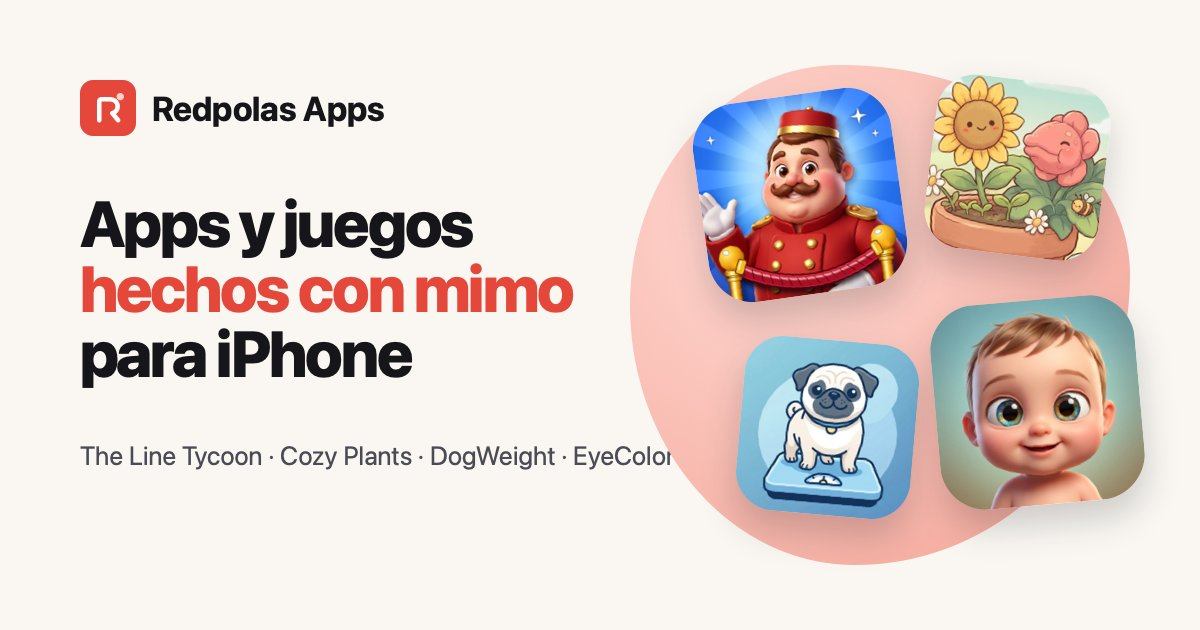
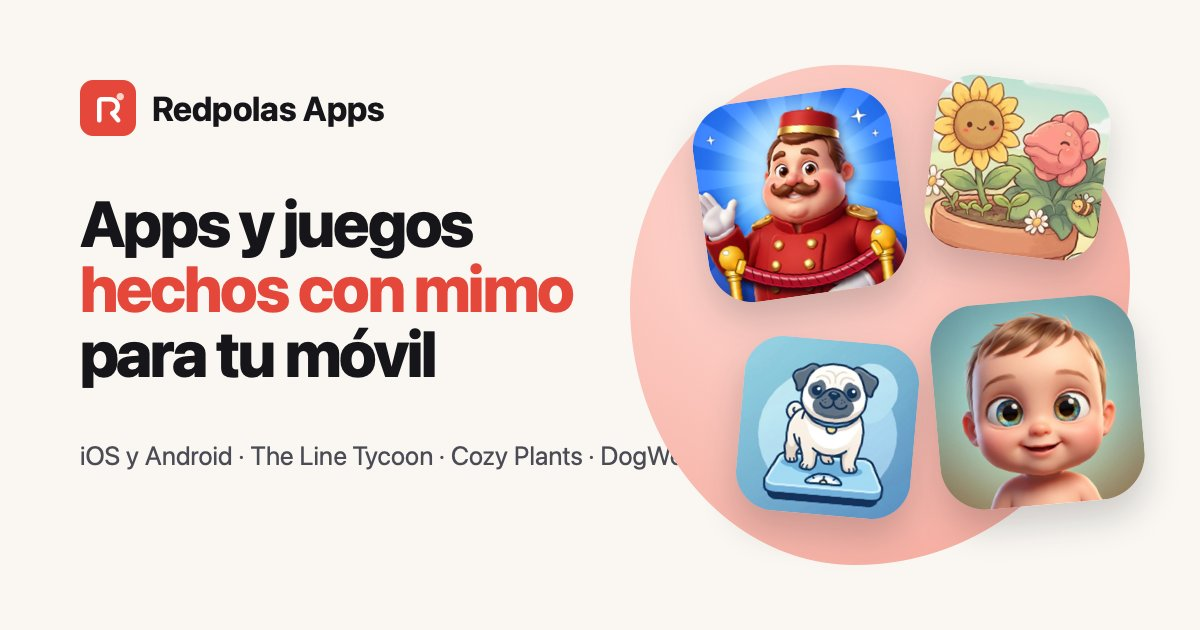
Portada: iOS y Android (textos, títulos, imagen para redes y datos estructurados), botón de Google Play en EyeColor y enlace a la página de desarrollador de Google Play

Changed region(s): [[0.0617, 0.6937, 0.555, 0.754], [0.185, 0.5127, 0.37, 0.6032]]

diff --git a/index.html b/index.html
@@ -3,16 +3,16 @@
 <head>
 <meta charset="UTF-8">
 <meta name="viewport" content="width=device-width, initial-scale=1.0, viewport-fit=cover">
-<title>Redpolas Apps · Apps y juegos para iPhone y iPad</title>
-<meta name="description" content="Estudio independiente de apps y juegos para iPhone y iPad: The Line Tycoon, Cozy Plants, DogWeight y EyeColor. Soporte, contacto y políticas de privacidad.">
+<title>Redpolas Apps · Apps y juegos para iPhone, iPad y Android</title>
+<meta name="description" content="Estudio independiente de apps y juegos para iPhone, iPad y Android: The Line Tycoon, Cozy Plants, DogWeight y EyeColor. Soporte, contacto y privacidad.">
 <link rel="canonical" href="https://redpolasapps.fyi/">
 <link rel="alternate" hreflang="es" href="https://redpolasapps.fyi/">
 <link rel="alternate" hreflang="en" href="https://redpolasapps.fyi/en/">
 <link rel="alternate" hreflang="x-default" href="https://redpolasapps.fyi/en/">
 <meta property="og:type" content="website">
 <meta property="og:site_name" content="Redpolas Apps">
-<meta property="og:title" content="Redpolas Apps · Apps y juegos para iPhone y iPad">
-<meta property="og:description" content="Estudio independiente de apps y juegos para iPhone y iPad: The Line Tycoon, Cozy Plants, DogWeight y EyeColor. Soporte, contacto y políticas de privacidad.">
+<meta property="og:title" content="Redpolas Apps · Apps y juegos para iPhone, iPad y Android">
+<meta property="og:description" content="Estudio independiente de apps y juegos para iPhone, iPad y Android: The Line Tycoon, Cozy Plants, DogWeight y EyeColor. Soporte, contacto y privacidad.">
 <meta property="og:url" content="https://redpolasapps.fyi/">
 <meta property="og:image" content="https://redpolasapps.fyi/assets/og-home.jpg">
 <meta property="og:image:width" content="1200">
@@ -20,8 +20,8 @@
 <meta property="og:locale" content="es_ES">
 <meta property="og:locale:alternate" content="en_US">
 <meta name="twitter:card" content="summary_large_image">
-<meta name="twitter:title" content="Redpolas Apps · Apps y juegos para iPhone y iPad">
-<meta name="twitter:description" content="Estudio independiente de apps y juegos para iPhone y iPad: The Line Tycoon, Cozy Plants, DogWeight y EyeColor. Soporte, contacto y políticas de privacidad.">
+<meta name="twitter:title" content="Redpolas Apps · Apps y juegos para iPhone, iPad y Android">
+<meta name="twitter:description" content="Estudio independiente de apps y juegos para iPhone, iPad y Android: The Line Tycoon, Cozy Plants, DogWeight y EyeColor. Soporte, contacto y privacidad.">
 <meta name="twitter:image" content="https://redpolasapps.fyi/assets/og-home.jpg">
 <meta name="theme-color" content="#faf7f2">
 <link rel="icon" type="image/png" href="/assets/logo.png">
@@ -197,8 +197,8 @@
     .facts b { font-size: 1.25rem; }
   }
 </style>
-<script type="application/ld+json">{"@context": "https://schema.org", "@type": "Organization", "name": "Redpolas Apps", "url": "https://redpolasapps.fyi/", "logo": "https://redpolasapps.fyi/assets/logo.png", "email": "redpolasapps@gmail.com", "founder": {"@type": "Person", "name": "Víctor M. García Ortega"}}</script>
-<script type="application/ld+json">{"@context": "https://schema.org", "@type": "ItemList", "name": "Apps de Redpolas Apps", "itemListElement": [{"@type": "ListItem", "position": 1, "item": {"@type": "VideoGame", "name": "The Line Tycoon", "operatingSystem": "iOS", "applicationCategory": "GameApplication", "description": "Dibuja colas, cruza puentes y vagonetas y sube a toda la multitud a la montaña rusa antes de que se le acabe la paciencia.", "image": "https://redpolasapps.fyi/assets/icons/linetycoon.png", "author": {"@type": "Person", "name": "Víctor M. García Ortega"}, "gamePlatform": "iOS", "url": "https://redpolasapps.fyi/LineTycoon/"}}, {"@type": "ListItem", "position": 2, "item": {"@type": "VideoGame", "name": "Cozy Plants: Idle Garden", "operatingSystem": "iOS", "applicationCategory": "GameApplication", "description": "Un refugio botánico en tu bolsillo: cultiva 24 especies, colecciona plantas y disfruta de la calma a tu ritmo.", "image": "https://redpolasapps.fyi/assets/icons/cozyplants.png", "author": {"@type": "Person", "name": "Víctor M. García Ortega"}, "gamePlatform": "iOS", "url": "https://apps.apple.com/app/id6831216434", "offers": {"@type": "Offer", "price": "0", "priceCurrency": "EUR"}}}, {"@type": "ListItem", "position": 3, "item": {"@type": "MobileApplication", "name": "DogWeight", "operatingSystem": "iOS", "applicationCategory": "HealthApplication", "description": "Lleva el control del peso y el crecimiento de tus perros de forma sencilla y visual.", "image": "https://redpolasapps.fyi/assets/icons/dogweight.png", "author": {"@type": "Person", "name": "Víctor M. García Ortega"}, "url": "https://apps.apple.com/app/id6819761466", "offers": {"@type": "Offer", "price": "0", "priceCurrency": "EUR"}}}, {"@type": "ListItem", "position": 4, "item": {"@type": "MobileApplication", "name": "EyeColor: Baby Eye Predictor", "operatingSystem": "iOS", "applicationCategory": "LifestyleApplication", "description": "Descubre la probabilidad genética del color de ojos de tu futuro bebé a partir de los de su familia.", "image": "https://redpolasapps.fyi/assets/icons/eyecolor.png", "author": {"@type": "Person", "name": "Víctor M. García Ortega"}, "url": "https://apps.apple.com/app/id6818159901", "offers": {"@type": "Offer", "price": "0", "priceCurrency": "EUR"}}}]}</script>
+<script type="application/ld+json">{"@context": "https://schema.org", "@type": "Organization", "name": "Redpolas Apps", "url": "https://redpolasapps.fyi/", "logo": "https://redpolasapps.fyi/assets/logo.png", "email": "redpolasapps@gmail.com", "sameAs": ["https://apps.apple.com/developer/id6818159903", "https://play.google.com/store/apps/developer?id=redpolasapps"], "founder": {"@type": "Person", "name": "Víctor M. García Ortega"}}</script>
+<script type="application/ld+json">{"@context": "https://schema.org", "@type": "ItemList", "name": "Apps de Redpolas Apps", "itemListElement": [{"@type": "ListItem", "position": 1, "item": {"@type": "VideoGame", "name": "The Line Tycoon", "operatingSystem": "iOS", "applicationCategory": "GameApplication", "description": "Dibuja colas, cruza puentes y vagonetas y sube a toda la multitud a la montaña rusa antes de que se le acabe la paciencia.", "image": "https://redpolasapps.fyi/assets/icons/linetycoon.png", "author": {"@type": "Person", "name": "Víctor M. García Ortega"}, "gamePlatform": "iOS", "url": "https://redpolasapps.fyi/LineTycoon/"}}, {"@type": "ListItem", "position": 2, "item": {"@type": "VideoGame", "name": "Cozy Plants: Idle Garden", "operatingSystem": "iOS", "applicationCategory": "GameApplication", "description": "Un refugio botánico en tu bolsillo: cultiva 24 especies, colecciona plantas y disfruta de la calma a tu ritmo.", "image": "https://redpolasapps.fyi/assets/icons/cozyplants.png", "author": {"@type": "Person", "name": "Víctor M. García Ortega"}, "gamePlatform": "iOS", "url": "https://apps.apple.com/app/id6831216434", "offers": {"@type": "Offer", "price": "0", "priceCurrency": "EUR"}}}, {"@type": "ListItem", "position": 3, "item": {"@type": "MobileApplication", "name": "DogWeight", "operatingSystem": "iOS", "applicationCategory": "HealthApplication", "description": "Lleva el control del peso y el crecimiento de tus perros de forma sencilla y visual.", "image": "https://redpolasapps.fyi/assets/icons/dogweight.png", "author": {"@type": "Person", "name": "Víctor M. García Ortega"}, "url": "https://apps.apple.com/app/id6819761466", "offers": {"@type": "Offer", "price": "0", "priceCurrency": "EUR"}}}, {"@type": "ListItem", "position": 4, "item": {"@type": "MobileApplication", "name": "EyeColor: Baby Eye Predictor", "operatingSystem": "iOS, Android", "applicationCategory": "LifestyleApplication", "description": "Descubre la probabilidad genética del color de ojos de tu futuro bebé a partir de los de su familia.", "image": "https://redpolasapps.fyi/assets/icons/eyecolor.png", "author": {"@type": "Person", "name": "Víctor M. García Ortega"}, "sameAs": ["https://play.google.com/store/apps/details?id=com.redpolasapps.babyeyecolor"], "url": "https://apps.apple.com/app/id6818159901", "offers": {"@type": "Offer", "price": "0", "priceCurrency": "EUR"}}}]}</script>
 </head>
 <body>
 
@@ -228,9 +228,9 @@
   <div class="hero">
     <div class="wrap hero-grid">
       <div>
-        <span class="eyebrow"><span>Estudio independiente · iPhone y iPad</span></span>
+        <span class="eyebrow"><span>Estudio independiente · iOS y Android</span></span>
         <h1>
-          <span>Apps y juegos <em>hechos con mimo</em> para tu iPhone.</span>
+          <span>Apps y juegos <em>hechos con mimo</em> para tu móvil.</span>
 
         </h1>
         <p class="lead">
@@ -243,7 +243,7 @@
         </div>
         <div class="facts">
           <div><b>4</b><span><span>apps y juegos</span></span></div>
-          <div><b>iPhone · iPad</b><span><span>hechas para iOS</span></span></div>
+          <div><b>iOS · Android</b><span><span>App Store y Google Play</span></span></div>
           <div><b>0</b><span><span>cuentas que crear</span></span></div>
         </div>
       </div>
@@ -288,7 +288,7 @@
           <p class="kicker"><span>Nuestras apps</span></p>
           <h2><span>Hechas para usarse, no para atraparte</span></h2>
         </div>
-        <p><span>Cada app hace una cosa y la hace bien. Descárgalas gratis en la App Store.</span></p>
+        <p><span>Cada app hace una cosa y la hace bien. Descárgalas gratis.</span></p>
       </div>
       <div class="apps">
         <article class="app" id="linetycoon">
@@ -338,6 +338,7 @@
             <div class="app-actions">
               <a class="btn btn-primary" href="/BabyEyeColor/">Ver la app</a>
               <a class="btn btn-ghost" href="https://apps.apple.com/es/app/id6818159901" rel="noopener"><svg aria-hidden="true" viewBox="0 0 24 24"><path d="M16.37 12.6c-.02-2.3 1.88-3.4 1.96-3.46-1.07-1.56-2.73-1.77-3.32-1.8-1.41-.14-2.76.83-3.48.83-.72 0-1.83-.81-3-.79-1.55.02-2.97.9-3.77 2.28-1.6 2.78-.41 6.9 1.15 9.16.76 1.1 1.67 2.34 2.87 2.3 1.15-.05 1.58-.75 2.97-.75 1.39 0 1.78.75 3 .72 1.24-.02 2.02-1.12 2.78-2.23.87-1.28 1.23-2.52 1.25-2.58-.03-.01-2.39-.92-2.41-3.68zM14.1 5.86c.64-.77 1.07-1.85.95-2.92-.92.04-2.03.61-2.69 1.38-.59.68-1.1 1.77-.96 2.82 1.02.08 2.07-.52 2.7-1.28z"/></svg>App Store</a>
+              <a class="btn btn-ghost" href="https://play.google.com/store/apps/details?id=com.redpolasapps.babyeyecolor&amp;hl=es" rel="noopener"><svg aria-hidden="true" viewBox="0 0 24 24"><path d="M4.2 2.6 13.5 12l-9.3 9.4c-.3-.2-.5-.6-.5-1.1V3.7c0-.5.2-.9.5-1.1z" fill="#2196f3"/><path d="m16.6 8.9-3.1 3.1-9.3-9.4c.3-.2.8-.2 1.2 0z" fill="#4caf50"/><path d="m16.6 15.1-11.2 6.3c-.4.2-.9.2-1.2 0l9.3-9.4z" fill="#f44336"/><path d="m20.2 10.9-3.6-2-3.1 3.1 3.1 3.1 3.6-2c.8-.5.8-1.7 0-2.2z" fill="#ffc107"/></svg>Google Play</a>
               <a class="btn btn-link" href="/BabyEyeColor/privacy.html">Privacidad</a>
             </div>
           </div>
@@ -358,7 +359,7 @@
         <div class="value">
           <div class="ico"><svg viewBox="0 0 24 24"><path d="M12 3l2.6 5.3 5.9.9-4.3 4.1 1 5.8L12 16.4 6.8 19.1l1-5.8L3.5 9.2l5.9-.9z"/></svg></div>
           <h3><span>Diseño cuidado</span></h3>
-          <p><span>Pensadas al detalle para iPhone y iPad: claras, rápidas y agradables de usar.</span></p>
+          <p><span>Pensadas al detalle para iPhone, iPad y Android: claras, rápidas y agradables de usar.</span></p>
         </div>
         <div class="value">
           <div class="ico"><svg viewBox="0 0 24 24"><path d="M21 12a8 8 0 0 1-11.6 7.1L4 20l1-4.6A8 8 0 1 1 21 12z"/></svg></div>
@@ -376,7 +377,7 @@
         <div>
           <p class="kicker"><span>Soporte</span></p>
           <h2><span>¿Necesitas ayuda con alguna app?</span></h2>
-          <p><span>Dudas, sugerencias, problemas con una compra o cualquier fallo: escríbenos indicando la app y tu modelo de iPhone o iPad.</span></p>
+          <p><span>Dudas, sugerencias, problemas con una compra o cualquier fallo: escríbenos indicando la app y el modelo de tu móvil o tablet.</span></p>
           <a class="mail" href="mailto:redpolasapps@gmail.com">✉ redpolasapps@gmail.com</a>
         </div>
         <div class="policies">
@@ -397,7 +398,8 @@
   <div class="wrap">
     <span>© 2026 Víctor M. García Ortega · Redpolas Apps</span>
     <nav>
-      <a href="https://apps.apple.com/developer/id6818159903" rel="noopener"><span>Todas nuestras apps en la App Store</span></a>
+      <a href="https://apps.apple.com/developer/id6818159903" rel="noopener"><span>Nuestras apps en la App Store</span></a>
+      <a href="https://play.google.com/store/apps/developer?id=redpolasapps" rel="noopener"><span>Nuestras apps en Google Play</span></a>
       <a href="mailto:redpolasapps@gmail.com"><span>Contacto</span></a>
     </nav>
   </div>

diff --git a/en/index.html b/en/index.html
@@ -3,16 +3,16 @@
 <head>
 <meta charset="UTF-8">
 <meta name="viewport" content="width=device-width, initial-scale=1.0, viewport-fit=cover">
-<title>Redpolas Apps · Apps and games for iPhone and iPad</title>
-<meta name="description" content="Independent studio making apps and games for iPhone and iPad: The Line Tycoon, Cozy Plants, DogWeight and EyeColor. Support, contact and privacy policies.">
+<title>Redpolas Apps · Apps and games for iPhone, iPad and Android</title>
+<meta name="description" content="Independent studio making apps and games for iPhone, iPad and Android: The Line Tycoon, Cozy Plants, DogWeight and EyeColor. Support, contact and privacy.">
 <link rel="canonical" href="https://redpolasapps.fyi/en/">
 <link rel="alternate" hreflang="es" href="https://redpolasapps.fyi/">
 <link rel="alternate" hreflang="en" href="https://redpolasapps.fyi/en/">
 <link rel="alternate" hreflang="x-default" href="https://redpolasapps.fyi/en/">
 <meta property="og:type" content="website">
 <meta property="og:site_name" content="Redpolas Apps">
-<meta property="og:title" content="Redpolas Apps · Apps and games for iPhone and iPad">
-<meta property="og:description" content="Independent studio making apps and games for iPhone and iPad: The Line Tycoon, Cozy Plants, DogWeight and EyeColor. Support, contact and privacy policies.">
+<meta property="og:title" content="Redpolas Apps · Apps and games for iPhone, iPad and Android">
+<meta property="og:description" content="Independent studio making apps and games for iPhone, iPad and Android: The Line Tycoon, Cozy Plants, DogWeight and EyeColor. Support, contact and privacy.">
 <meta property="og:url" content="https://redpolasapps.fyi/en/">
 <meta property="og:image" content="https://redpolasapps.fyi/assets/og-home.jpg">
 <meta property="og:image:width" content="1200">
@@ -20,8 +20,8 @@
 <meta property="og:locale" content="en_US">
 <meta property="og:locale:alternate" content="es_ES">
 <meta name="twitter:card" content="summary_large_image">
-<meta name="twitter:title" content="Redpolas Apps · Apps and games for iPhone and iPad">
-<meta name="twitter:description" content="Independent studio making apps and games for iPhone and iPad: The Line Tycoon, Cozy Plants, DogWeight and EyeColor. Support, contact and privacy policies.">
+<meta name="twitter:title" content="Redpolas Apps · Apps and games for iPhone, iPad and Android">
+<meta name="twitter:description" content="Independent studio making apps and games for iPhone, iPad and Android: The Line Tycoon, Cozy Plants, DogWeight and EyeColor. Support, contact and privacy.">
 <meta name="twitter:image" content="https://redpolasapps.fyi/assets/og-home.jpg">
 <meta name="theme-color" content="#faf7f2">
 <link rel="icon" type="image/png" href="/assets/logo.png">
@@ -197,8 +197,8 @@
     .facts b { font-size: 1.25rem; }
   }
 </style>
-<script type="application/ld+json">{"@context": "https://schema.org", "@type": "Organization", "name": "Redpolas Apps", "url": "https://redpolasapps.fyi/", "logo": "https://redpolasapps.fyi/assets/logo.png", "email": "redpolasapps@gmail.com", "founder": {"@type": "Person", "name": "Víctor M. García Ortega"}}</script>
-<script type="application/ld+json">{"@context": "https://schema.org", "@type": "ItemList", "name": "Redpolas Apps apps", "itemListElement": [{"@type": "ListItem", "position": 1, "item": {"@type": "VideoGame", "name": "The Line Tycoon", "operatingSystem": "iOS", "applicationCategory": "GameApplication", "description": "Draw the line, cross it with bridges and mine carts and get the whole crowd onto the roller coaster before their patience runs out.", "image": "https://redpolasapps.fyi/assets/icons/linetycoon.png", "author": {"@type": "Person", "name": "Víctor M. García Ortega"}, "gamePlatform": "iOS", "url": "https://redpolasapps.fyi/LineTycoon/"}}, {"@type": "ListItem", "position": 2, "item": {"@type": "VideoGame", "name": "Cozy Plants: Idle Garden", "operatingSystem": "iOS", "applicationCategory": "GameApplication", "description": "A cozy botanical retreat in your pocket: grow 24 species, collect plants and enjoy the calm at your own pace.", "image": "https://redpolasapps.fyi/assets/icons/cozyplants.png", "author": {"@type": "Person", "name": "Víctor M. García Ortega"}, "gamePlatform": "iOS", "url": "https://apps.apple.com/app/id6831216434", "offers": {"@type": "Offer", "price": "0", "priceCurrency": "EUR"}}}, {"@type": "ListItem", "position": 3, "item": {"@type": "MobileApplication", "name": "DogWeight", "operatingSystem": "iOS", "applicationCategory": "HealthApplication", "description": "Track your dogs' weight and growth over time, simply and visually.", "image": "https://redpolasapps.fyi/assets/icons/dogweight.png", "author": {"@type": "Person", "name": "Víctor M. García Ortega"}, "url": "https://apps.apple.com/app/id6819761466", "offers": {"@type": "Offer", "price": "0", "priceCurrency": "EUR"}}}, {"@type": "ListItem", "position": 4, "item": {"@type": "MobileApplication", "name": "EyeColor: Baby Eye Predictor", "operatingSystem": "iOS", "applicationCategory": "LifestyleApplication", "description": "Find out the genetic odds of your future baby's eye color from the family's own.", "image": "https://redpolasapps.fyi/assets/icons/eyecolor.png", "author": {"@type": "Person", "name": "Víctor M. García Ortega"}, "url": "https://apps.apple.com/app/id6818159901", "offers": {"@type": "Offer", "price": "0", "priceCurrency": "EUR"}}}]}</script>
+<script type="application/ld+json">{"@context": "https://schema.org", "@type": "Organization", "name": "Redpolas Apps", "url": "https://redpolasapps.fyi/", "logo": "https://redpolasapps.fyi/assets/logo.png", "email": "redpolasapps@gmail.com", "sameAs": ["https://apps.apple.com/developer/id6818159903", "https://play.google.com/store/apps/developer?id=redpolasapps"], "founder": {"@type": "Person", "name": "Víctor M. García Ortega"}}</script>
+<script type="application/ld+json">{"@context": "https://schema.org", "@type": "ItemList", "name": "Redpolas Apps apps", "itemListElement": [{"@type": "ListItem", "position": 1, "item": {"@type": "VideoGame", "name": "The Line Tycoon", "operatingSystem": "iOS", "applicationCategory": "GameApplication", "description": "Draw the line, cross it with bridges and mine carts and get the whole crowd onto the roller coaster before their patience runs out.", "image": "https://redpolasapps.fyi/assets/icons/linetycoon.png", "author": {"@type": "Person", "name": "Víctor M. García Ortega"}, "gamePlatform": "iOS", "url": "https://redpolasapps.fyi/LineTycoon/"}}, {"@type": "ListItem", "position": 2, "item": {"@type": "VideoGame", "name": "Cozy Plants: Idle Garden", "operatingSystem": "iOS", "applicationCategory": "GameApplication", "description": "A cozy botanical retreat in your pocket: grow 24 species, collect plants and enjoy the calm at your own pace.", "image": "https://redpolasapps.fyi/assets/icons/cozyplants.png", "author": {"@type": "Person", "name": "Víctor M. García Ortega"}, "gamePlatform": "iOS", "url": "https://apps.apple.com/app/id6831216434", "offers": {"@type": "Offer", "price": "0", "priceCurrency": "EUR"}}}, {"@type": "ListItem", "position": 3, "item": {"@type": "MobileApplication", "name": "DogWeight", "operatingSystem": "iOS", "applicationCategory": "HealthApplication", "description": "Track your dogs' weight and growth over time, simply and visually.", "image": "https://redpolasapps.fyi/assets/icons/dogweight.png", "author": {"@type": "Person", "name": "Víctor M. García Ortega"}, "url": "https://apps.apple.com/app/id6819761466", "offers": {"@type": "Offer", "price": "0", "priceCurrency": "EUR"}}}, {"@type": "ListItem", "position": 4, "item": {"@type": "MobileApplication", "name": "EyeColor: Baby Eye Predictor", "operatingSystem": "iOS, Android", "applicationCategory": "LifestyleApplication", "description": "Find out the genetic odds of your future baby's eye color from the family's own.", "image": "https://redpolasapps.fyi/assets/icons/eyecolor.png", "author": {"@type": "Person", "name": "Víctor M. García Ortega"}, "sameAs": ["https://play.google.com/store/apps/details?id=com.redpolasapps.babyeyecolor"], "url": "https://apps.apple.com/app/id6818159901", "offers": {"@type": "Offer", "price": "0", "priceCurrency": "EUR"}}}]}</script>
 </head>
 <body>
 
@@ -228,10 +228,10 @@
   <div class="hero">
     <div class="wrap hero-grid">
       <div>
-        <span class="eyebrow"><span>Independent studio · iPhone &amp; iPad</span></span>
+        <span class="eyebrow"><span>Independent studio · iOS &amp; Android</span></span>
         <h1>
 
-          <span>Apps and games <em>made with care</em> for your iPhone.</span>
+          <span>Apps and games <em>made with care</em> for your phone.</span>
         </h1>
         <p class="lead">
 
@@ -243,7 +243,7 @@
         </div>
         <div class="facts">
           <div><b>4</b><span><span>apps and games</span></span></div>
-          <div><b>iPhone · iPad</b><span><span>built for iOS</span></span></div>
+          <div><b>iOS · Android</b><span><span>App Store &amp; Google Play</span></span></div>
           <div><b>0</b><span><span>accounts to create</span></span></div>
         </div>
       </div>
@@ -288,7 +288,7 @@
           <p class="kicker"><span>Our apps</span></p>
           <h2><span>Made to be used, not to hook you</span></h2>
         </div>
-        <p><span>Each app does one thing and does it well. Download them free on the App Store.</span></p>
+        <p><span>Each app does one thing and does it well. Download them for free.</span></p>
       </div>
       <div class="apps">
         <article class="app" id="linetycoon">
@@ -338,6 +338,7 @@
             <div class="app-actions">
               <a class="btn btn-primary" href="/BabyEyeColor/en/">See the app</a>
               <a class="btn btn-ghost" href="https://apps.apple.com/us/app/id6818159901" rel="noopener"><svg aria-hidden="true" viewBox="0 0 24 24"><path d="M16.37 12.6c-.02-2.3 1.88-3.4 1.96-3.46-1.07-1.56-2.73-1.77-3.32-1.8-1.41-.14-2.76.83-3.48.83-.72 0-1.83-.81-3-.79-1.55.02-2.97.9-3.77 2.28-1.6 2.78-.41 6.9 1.15 9.16.76 1.1 1.67 2.34 2.87 2.3 1.15-.05 1.58-.75 2.97-.75 1.39 0 1.78.75 3 .72 1.24-.02 2.02-1.12 2.78-2.23.87-1.28 1.23-2.52 1.25-2.58-.03-.01-2.39-.92-2.41-3.68zM14.1 5.86c.64-.77 1.07-1.85.95-2.92-.92.04-2.03.61-2.69 1.38-.59.68-1.1 1.77-.96 2.82 1.02.08 2.07-.52 2.7-1.28z"/></svg>App Store</a>
+              <a class="btn btn-ghost" href="https://play.google.com/store/apps/details?id=com.redpolasapps.babyeyecolor&amp;hl=en" rel="noopener"><svg aria-hidden="true" viewBox="0 0 24 24"><path d="M4.2 2.6 13.5 12l-9.3 9.4c-.3-.2-.5-.6-.5-1.1V3.7c0-.5.2-.9.5-1.1z" fill="#2196f3"/><path d="m16.6 8.9-3.1 3.1-9.3-9.4c.3-.2.8-.2 1.2 0z" fill="#4caf50"/><path d="m16.6 15.1-11.2 6.3c-.4.2-.9.2-1.2 0l9.3-9.4z" fill="#f44336"/><path d="m20.2 10.9-3.6-2-3.1 3.1 3.1 3.1 3.6-2c.8-.5.8-1.7 0-2.2z" fill="#ffc107"/></svg>Google Play</a>
               <a class="btn btn-link" href="/BabyEyeColor/privacy.html">Privacy</a>
             </div>
           </div>
@@ -358,7 +359,7 @@
         <div class="value">
           <div class="ico"><svg viewBox="0 0 24 24"><path d="M12 3l2.6 5.3 5.9.9-4.3 4.1 1 5.8L12 16.4 6.8 19.1l1-5.8L3.5 9.2l5.9-.9z"/></svg></div>
           <h3><span>Crafted design</span></h3>
-          <p><span>Designed down to the detail for iPhone and iPad: clear, fast and pleasant to use.</span></p>
+          <p><span>Designed down to the detail for iPhone, iPad and Android: clear, fast and pleasant to use.</span></p>
         </div>
         <div class="value">
           <div class="ico"><svg viewBox="0 0 24 24"><path d="M21 12a8 8 0 0 1-11.6 7.1L4 20l1-4.6A8 8 0 1 1 21 12z"/></svg></div>
@@ -376,7 +377,7 @@
         <div>
           <p class="kicker"><span>Support</span></p>
           <h2><span>Need help with one of our apps?</span></h2>
-          <p><span>Questions, ideas, a purchase that went wrong or any bug: write to us with the app's name and your iPhone or iPad model.</span></p>
+          <p><span>Questions, ideas, a purchase that went wrong or any bug: write to us with the app's name and your phone or tablet model.</span></p>
           <a class="mail" href="mailto:redpolasapps@gmail.com">✉ redpolasapps@gmail.com</a>
         </div>
         <div class="policies">
@@ -397,7 +398,8 @@
   <div class="wrap">
     <span>© 2026 Víctor M. García Ortega · Redpolas Apps</span>
     <nav>
-      <a href="https://apps.apple.com/developer/id6818159903" rel="noopener"><span>All our apps on the App Store</span></a>
+      <a href="https://apps.apple.com/developer/id6818159903" rel="noopener"><span>Our apps on the App Store</span></a>
+      <a href="https://play.google.com/store/apps/developer?id=redpolasapps" rel="noopener"><span>Our apps on Google Play</span></a>
       <a href="mailto:redpolasapps@gmail.com"><span>Contact</span></a>
     </nav>
   </div>

diff --git a/_src/home.html b/_src/home.html
@@ -209,10 +209,10 @@
   <div class="hero">
     <div class="wrap hero-grid">
       <div>
-        <span class="eyebrow"><span lang="es">Estudio independiente · iPhone y iPad</span><span lang="en">Independent studio · iPhone &amp; iPad</span></span>
+        <span class="eyebrow"><span lang="es">Estudio independiente · iOS y Android</span><span lang="en">Independent studio · iOS &amp; Android</span></span>
         <h1>
-          <span lang="es">Apps y juegos <em>hechos con mimo</em> para tu iPhone.</span>
-          <span lang="en">Apps and games <em>made with care</em> for your iPhone.</span>
+          <span lang="es">Apps y juegos <em>hechos con mimo</em> para tu móvil.</span>
+          <span lang="en">Apps and games <em>made with care</em> for your phone.</span>
         </h1>
         <p class="lead">
           <span lang="es">Diseñamos y desarrollamos apps sencillas y bonitas: juegos para desconectar y herramientas útiles para el día a día, sin cuentas ni registros.</span>
@@ -224,7 +224,7 @@
         </div>
         <div class="facts">
           <div><b>{{APP_COUNT}}</b><span><span lang="es">apps y juegos</span><span lang="en">apps and games</span></span></div>
-          <div><b>iPhone · iPad</b><span><span lang="es">hechas para iOS</span><span lang="en">built for iOS</span></span></div>
+          <div><b>iOS · Android</b><span><span lang="es">App Store y Google Play</span><span lang="en">App Store &amp; Google Play</span></span></div>
           <div><b>0</b><span><span lang="es">cuentas que crear</span><span lang="en">accounts to create</span></span></div>
         </div>
       </div>
@@ -269,7 +269,7 @@
           <p class="kicker"><span lang="es">Nuestras apps</span><span lang="en">Our apps</span></p>
           <h2><span lang="es">Hechas para usarse, no para atraparte</span><span lang="en">Made to be used, not to hook you</span></h2>
         </div>
-        <p><span lang="es">Cada app hace una cosa y la hace bien. Descárgalas gratis en la App Store.</span><span lang="en">Each app does one thing and does it well. Download them free on the App Store.</span></p>
+        <p><span lang="es">Cada app hace una cosa y la hace bien. Descárgalas gratis.</span><span lang="en">Each app does one thing and does it well. Download them for free.</span></p>
       </div>
       <div class="apps">
 {{APP_CARDS}}
@@ -289,7 +289,7 @@
         <div class="value">
           <div class="ico"><svg viewBox="0 0 24 24"><path d="M12 3l2.6 5.3 5.9.9-4.3 4.1 1 5.8L12 16.4 6.8 19.1l1-5.8L3.5 9.2l5.9-.9z"/></svg></div>
           <h3><span lang="es">Diseño cuidado</span><span lang="en">Crafted design</span></h3>
-          <p><span lang="es">Pensadas al detalle para iPhone y iPad: claras, rápidas y agradables de usar.</span><span lang="en">Designed down to the detail for iPhone and iPad: clear, fast and pleasant to use.</span></p>
+          <p><span lang="es">Pensadas al detalle para iPhone, iPad y Android: claras, rápidas y agradables de usar.</span><span lang="en">Designed down to the detail for iPhone, iPad and Android: clear, fast and pleasant to use.</span></p>
         </div>
         <div class="value">
           <div class="ico"><svg viewBox="0 0 24 24"><path d="M21 12a8 8 0 0 1-11.6 7.1L4 20l1-4.6A8 8 0 1 1 21 12z"/></svg></div>
@@ -307,7 +307,7 @@
         <div>
           <p class="kicker"><span lang="es">Soporte</span><span lang="en">Support</span></p>
           <h2><span lang="es">¿Necesitas ayuda con alguna app?</span><span lang="en">Need help with one of our apps?</span></h2>
-          <p><span lang="es">Dudas, sugerencias, problemas con una compra o cualquier fallo: escríbenos indicando la app y tu modelo de iPhone o iPad.</span><span lang="en">Questions, ideas, a purchase that went wrong or any bug: write to us with the app's name and your iPhone or iPad model.</span></p>
+          <p><span lang="es">Dudas, sugerencias, problemas con una compra o cualquier fallo: escríbenos indicando la app y el modelo de tu móvil o tablet.</span><span lang="en">Questions, ideas, a purchase that went wrong or any bug: write to us with the app's name and your phone or tablet model.</span></p>
           <a class="mail" href="mailto:redpolasapps@gmail.com">✉ redpolasapps@gmail.com</a>
         </div>
         <div class="policies">
@@ -325,7 +325,8 @@
   <div class="wrap">
     <span>© 2026 Víctor M. García Ortega · Redpolas Apps</span>
     <nav>
-      <a href="https://apps.apple.com/developer/id6818159903" rel="noopener"><span lang="es">Todas nuestras apps en la App Store</span><span lang="en">All our apps on the App Store</span></a>
+      <a href="https://apps.apple.com/developer/id6818159903" rel="noopener"><span lang="es">Nuestras apps en la App Store</span><span lang="en">Our apps on the App Store</span></a>
+      <a href="https://play.google.com/store/apps/developer?id=redpolasapps" rel="noopener"><span lang="es">Nuestras apps en Google Play</span><span lang="en">Our apps on Google Play</span></a>
       <a href="mailto:redpolasapps@gmail.com"><span lang="es">Contacto</span><span lang="en">Contact</span></a>
     </nav>
   </div>

diff --git a/_src/art/og-home.html b/_src/art/og-home.html
@@ -9,8 +9,8 @@ p{position:absolute;left:80px;top:440px;margin:0;font-size:26px;color:#4b4b55}
 .ic{position:absolute;border-radius:22.5%;box-shadow:0 18px 40px rgba(22,22,26,.2)}
 </style></head><body><div class="w">
 <div class="brand"><svg width="56" height="56" viewBox="0 0 64 64"><rect width="64" height="64" rx="15" fill="#e5483b"/><path d="M22 46V24.5c0-1.4 1.1-2.5 2.5-2.5h9.2c5.6 0 9.3 3.3 9.3 8.2 0 3.9-2.4 6.7-6.1 7.7L43.6 46" fill="none" stroke="#fff" stroke-width="5.2" stroke-linecap="round" stroke-linejoin="round"/><circle cx="46" cy="19" r="4.2" fill="#ffd2c9"/></svg>Redpolas Apps</div>
-<h1>Apps y juegos <em>hechos con mimo</em> para iPhone</h1>
-<p>The Line Tycoon · Cozy Plants · DogWeight · EyeColor</p>
+<h1>Apps y juegos <em>hechos con mimo</em> para tu móvil</h1>
+<p>iOS y Android · The Line Tycoon · Cozy Plants · DogWeight · EyeColor</p>
 <div class="blob"></div>
 <img class="ic" src="../../assets/icons/linetycoon.png" style="left:700px;top:95px;width:200px;transform:rotate(-8deg)">
 <img class="ic" src="../../assets/icons/cozyplants.png" style="left:930px;top:80px;width:175px;transform:rotate(7deg)">

diff --git a/_src/build.py b/_src/build.py
@@ -115,6 +115,11 @@ def app_cards(apps, lang):
             links.append(f'<a class="btn {"btn-ghost" if a.get("page") else "btn-primary"}" href="{e(store)}" rel="noopener">'
                          f'<svg aria-hidden="true" viewBox="0 0 24 24"><path d="M16.37 12.6c-.02-2.3 1.88-3.4 1.96-3.46-1.07-1.56-2.73-1.77-3.32-1.8-1.41-.14-2.76.83-3.48.83-.72 0-1.83-.81-3-.79-1.55.02-2.97.9-3.77 2.28-1.6 2.78-.41 6.9 1.15 9.16.76 1.1 1.67 2.34 2.87 2.3 1.15-.05 1.58-.75 2.97-.75 1.39 0 1.78.75 3 .72 1.24-.02 2.02-1.12 2.78-2.23.87-1.28 1.23-2.52 1.25-2.58-.03-.01-2.39-.92-2.41-3.68zM14.1 5.86c.64-.77 1.07-1.85.95-2.92-.92.04-2.03.61-2.69 1.38-.59.68-1.1 1.77-.96 2.82 1.02.08 2.07-.52 2.7-1.28z"/></svg>'
                          f'App Store</a>')
+        if a.get('playStore'):
+            hl = 'es' if lang == 'es' else 'en'
+            links.append(f'<a class="btn btn-ghost" href="{e(a["playStore"])}&amp;hl={hl}" rel="noopener">'
+                         f'<svg aria-hidden="true" viewBox="0 0 24 24"><path d="M4.2 2.6 13.5 12l-9.3 9.4c-.3-.2-.5-.6-.5-1.1V3.7c0-.5.2-.9.5-1.1z" fill="#2196f3"/><path d="m16.6 8.9-3.1 3.1-9.3-9.4c.3-.2.8-.2 1.2 0z" fill="#4caf50"/><path d="m16.6 15.1-11.2 6.3c-.4.2-.9.2-1.2 0l9.3-9.4z" fill="#f44336"/><path d="m20.2 10.9-3.6-2-3.1 3.1 3.1 3.1 3.6-2c.8-.5.8-1.7 0-2.2z" fill="#ffc107"/></svg>'
+                         f'Google Play</a>')
         links.append(f'<a class="btn btn-link" href="{e(a["privacy"])}">{"Privacidad" if lang == "es" else "Privacy"}</a>')
         cards.append(f'''        <article class="app" id="{e(a['slug'])}">
           <img class="app-icon" src="/assets/icons/{e(a['slug'])}.png" alt="{e(a['name'])}" width="96" height="96" loading="lazy">
@@ -145,6 +150,9 @@ def apps_jsonld(apps, lang):
         }
         if a.get('game'):
             app['gamePlatform'] = 'iOS'
+        if a.get('playStore'):
+            app['operatingSystem'] = 'iOS, Android'
+            app['sameAs'] = [a['playStore']]
         if a.get('status') == 'live' and a.get('appStoreId'):
             app['url'] = f"https://apps.apple.com/app/id{a['appStoreId']}"
             app['offers'] = {'@type': 'Offer', 'price': '0', 'priceCurrency': 'EUR'}
@@ -328,16 +336,17 @@ def main():
     # home
     home_meta = {
         'image': '/assets/og-home.jpg',
-        'es': {'title': 'Redpolas Apps · Apps y juegos para iPhone y iPad',
-               'description': 'Estudio independiente de apps y juegos para iPhone y iPad: The Line Tycoon, Cozy Plants, DogWeight y EyeColor. Soporte, contacto y políticas de privacidad.'},
-        'en': {'title': 'Redpolas Apps · Apps and games for iPhone and iPad',
-               'description': 'Independent studio making apps and games for iPhone and iPad: The Line Tycoon, Cozy Plants, DogWeight and EyeColor. Support, contact and privacy policies.'},
+        'es': {'title': 'Redpolas Apps · Apps y juegos para iPhone, iPad y Android',
+               'description': 'Estudio independiente de apps y juegos para iPhone, iPad y Android: The Line Tycoon, Cozy Plants, DogWeight y EyeColor. Soporte, contacto y privacidad.'},
+        'en': {'title': 'Redpolas Apps · Apps and games for iPhone, iPad and Android',
+               'description': 'Independent studio making apps and games for iPhone, iPad and Android: The Line Tycoon, Cozy Plants, DogWeight and EyeColor. Support, contact and privacy.'},
     }
 
     def home_ld(lang):
         data = [{
             '@context': 'https://schema.org', '@type': 'Organization', 'name': 'Redpolas Apps', 'url': SITE + '/',
             'logo': SITE + '/assets/logo.png', 'email': 'redpolasapps@gmail.com',
+            'sameAs': ['https://apps.apple.com/developer/id6818159903', 'https://play.google.com/store/apps/developer?id=redpolasapps'],
             'founder': {'@type': 'Person', 'name': 'Víctor M. García Ortega'},
         }, {
             '@context': 'https://schema.org', '@type': 'ItemList',
